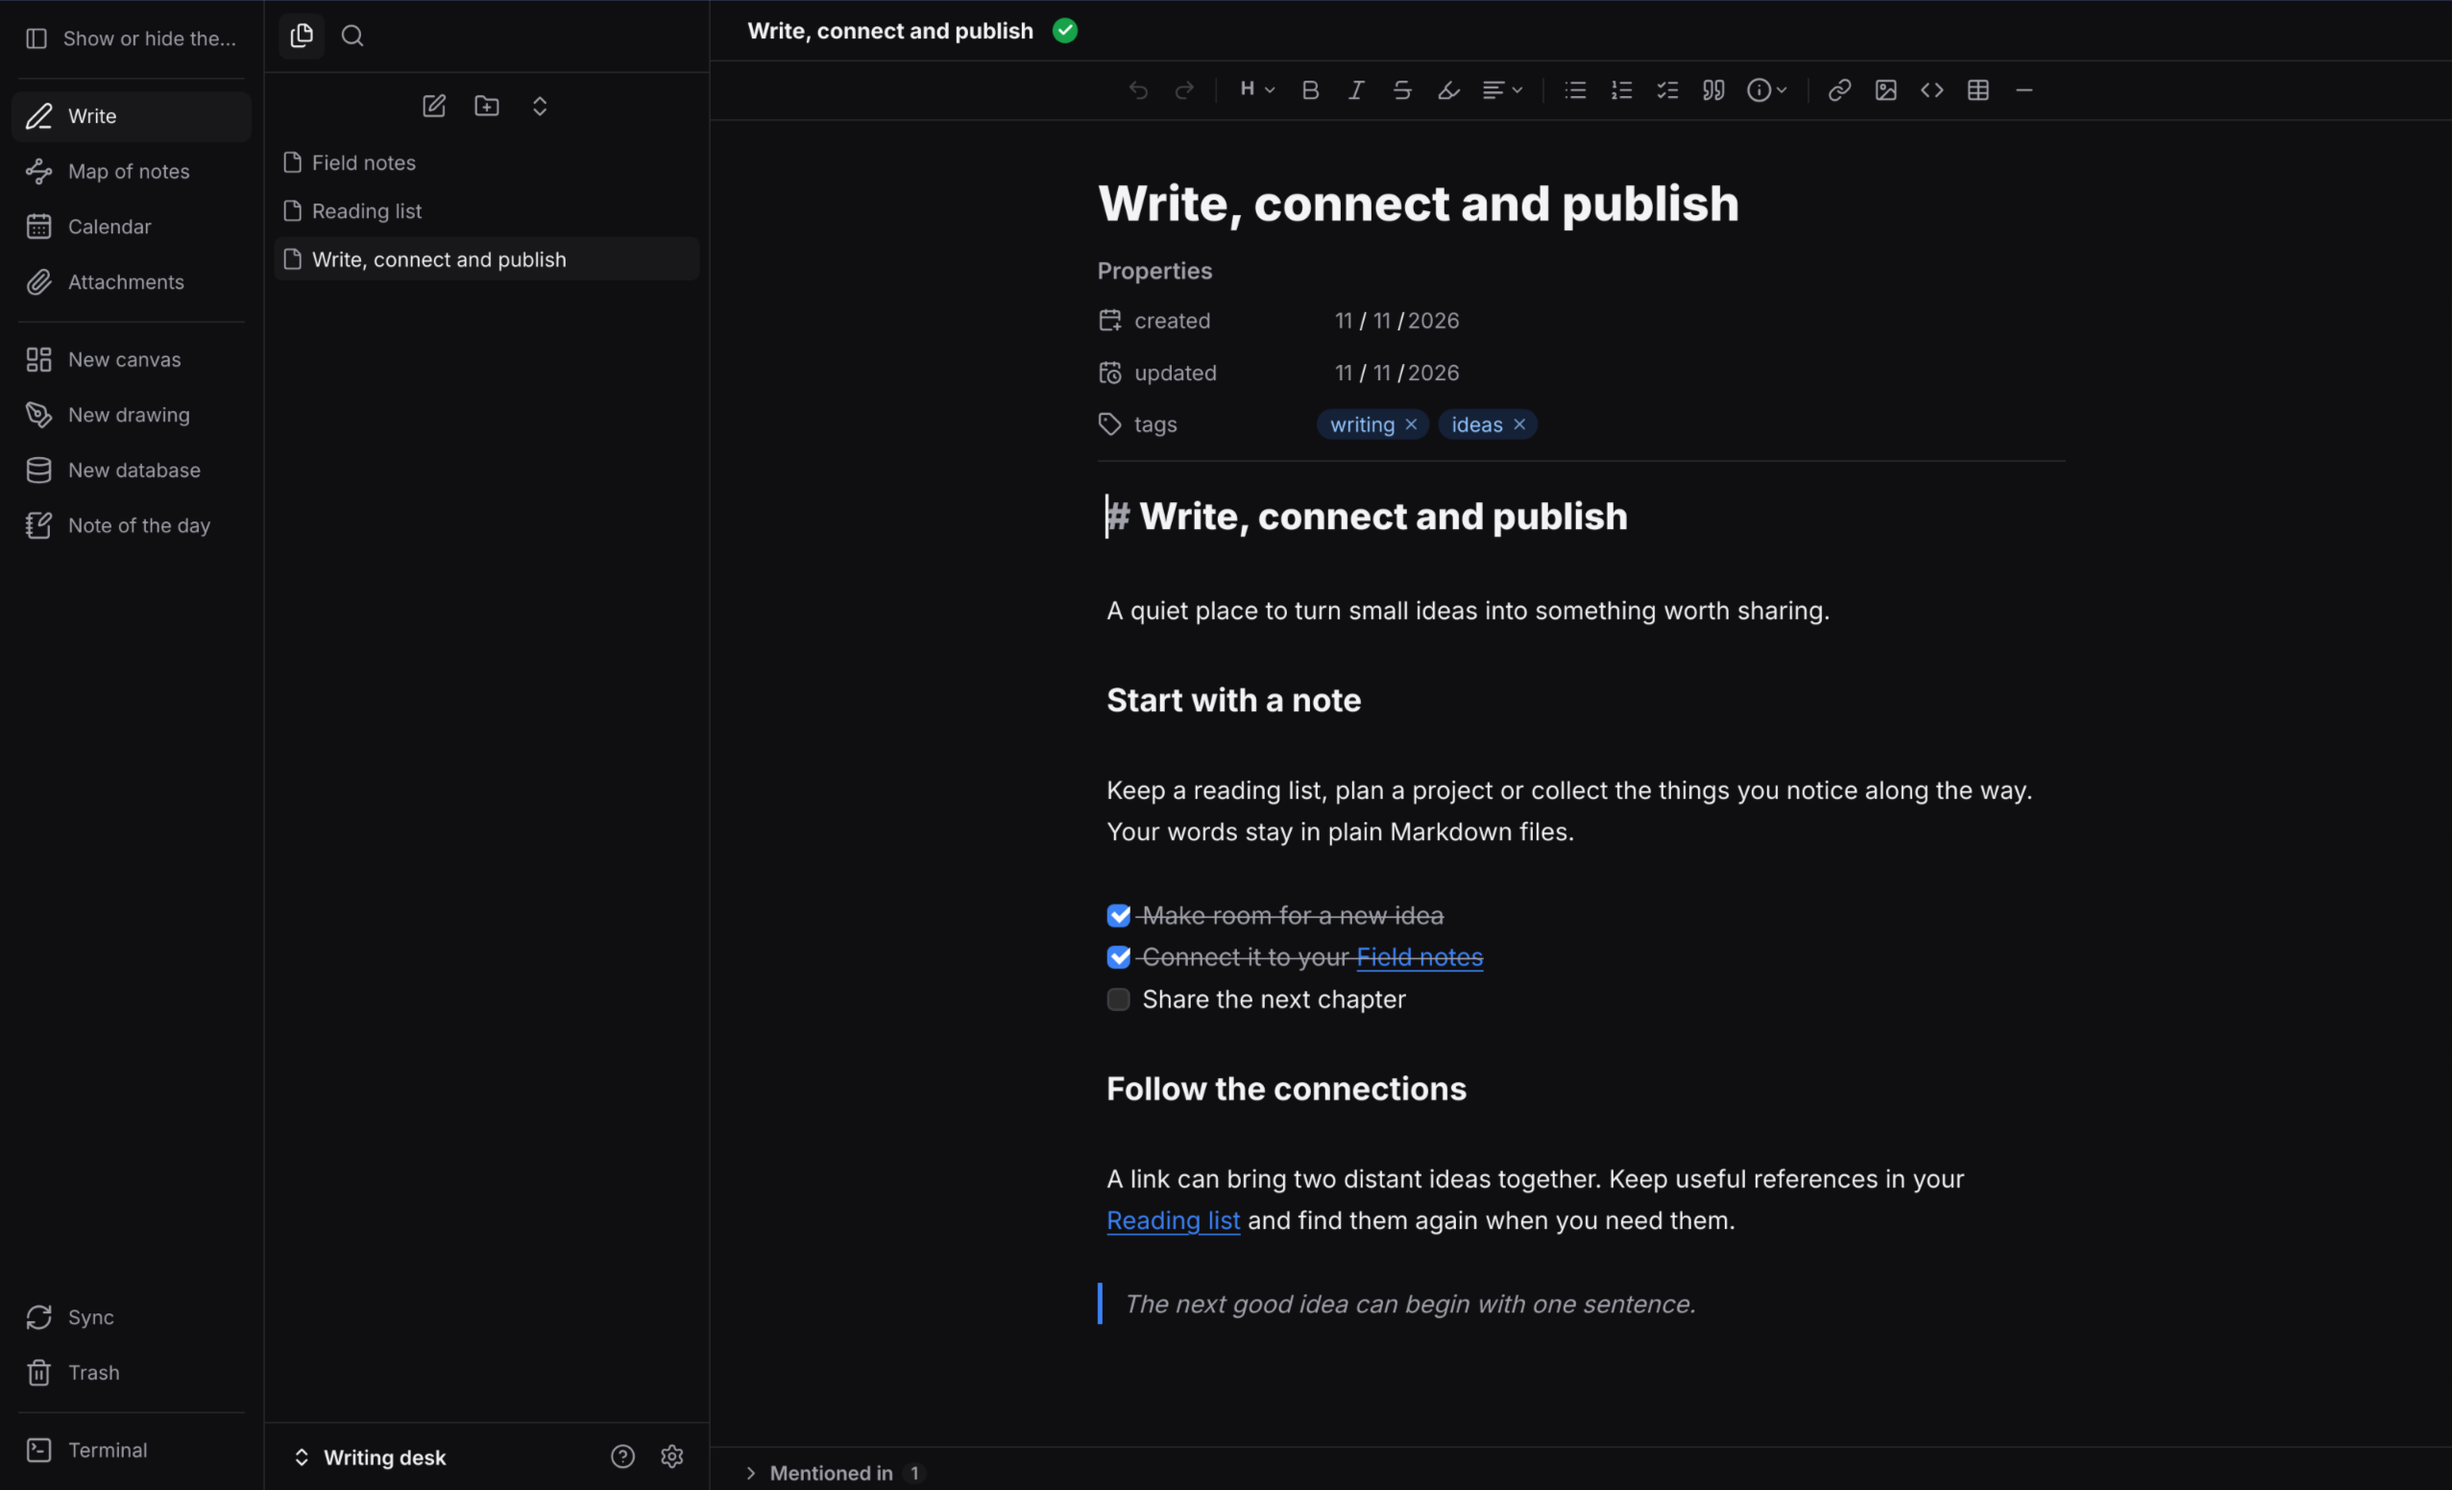
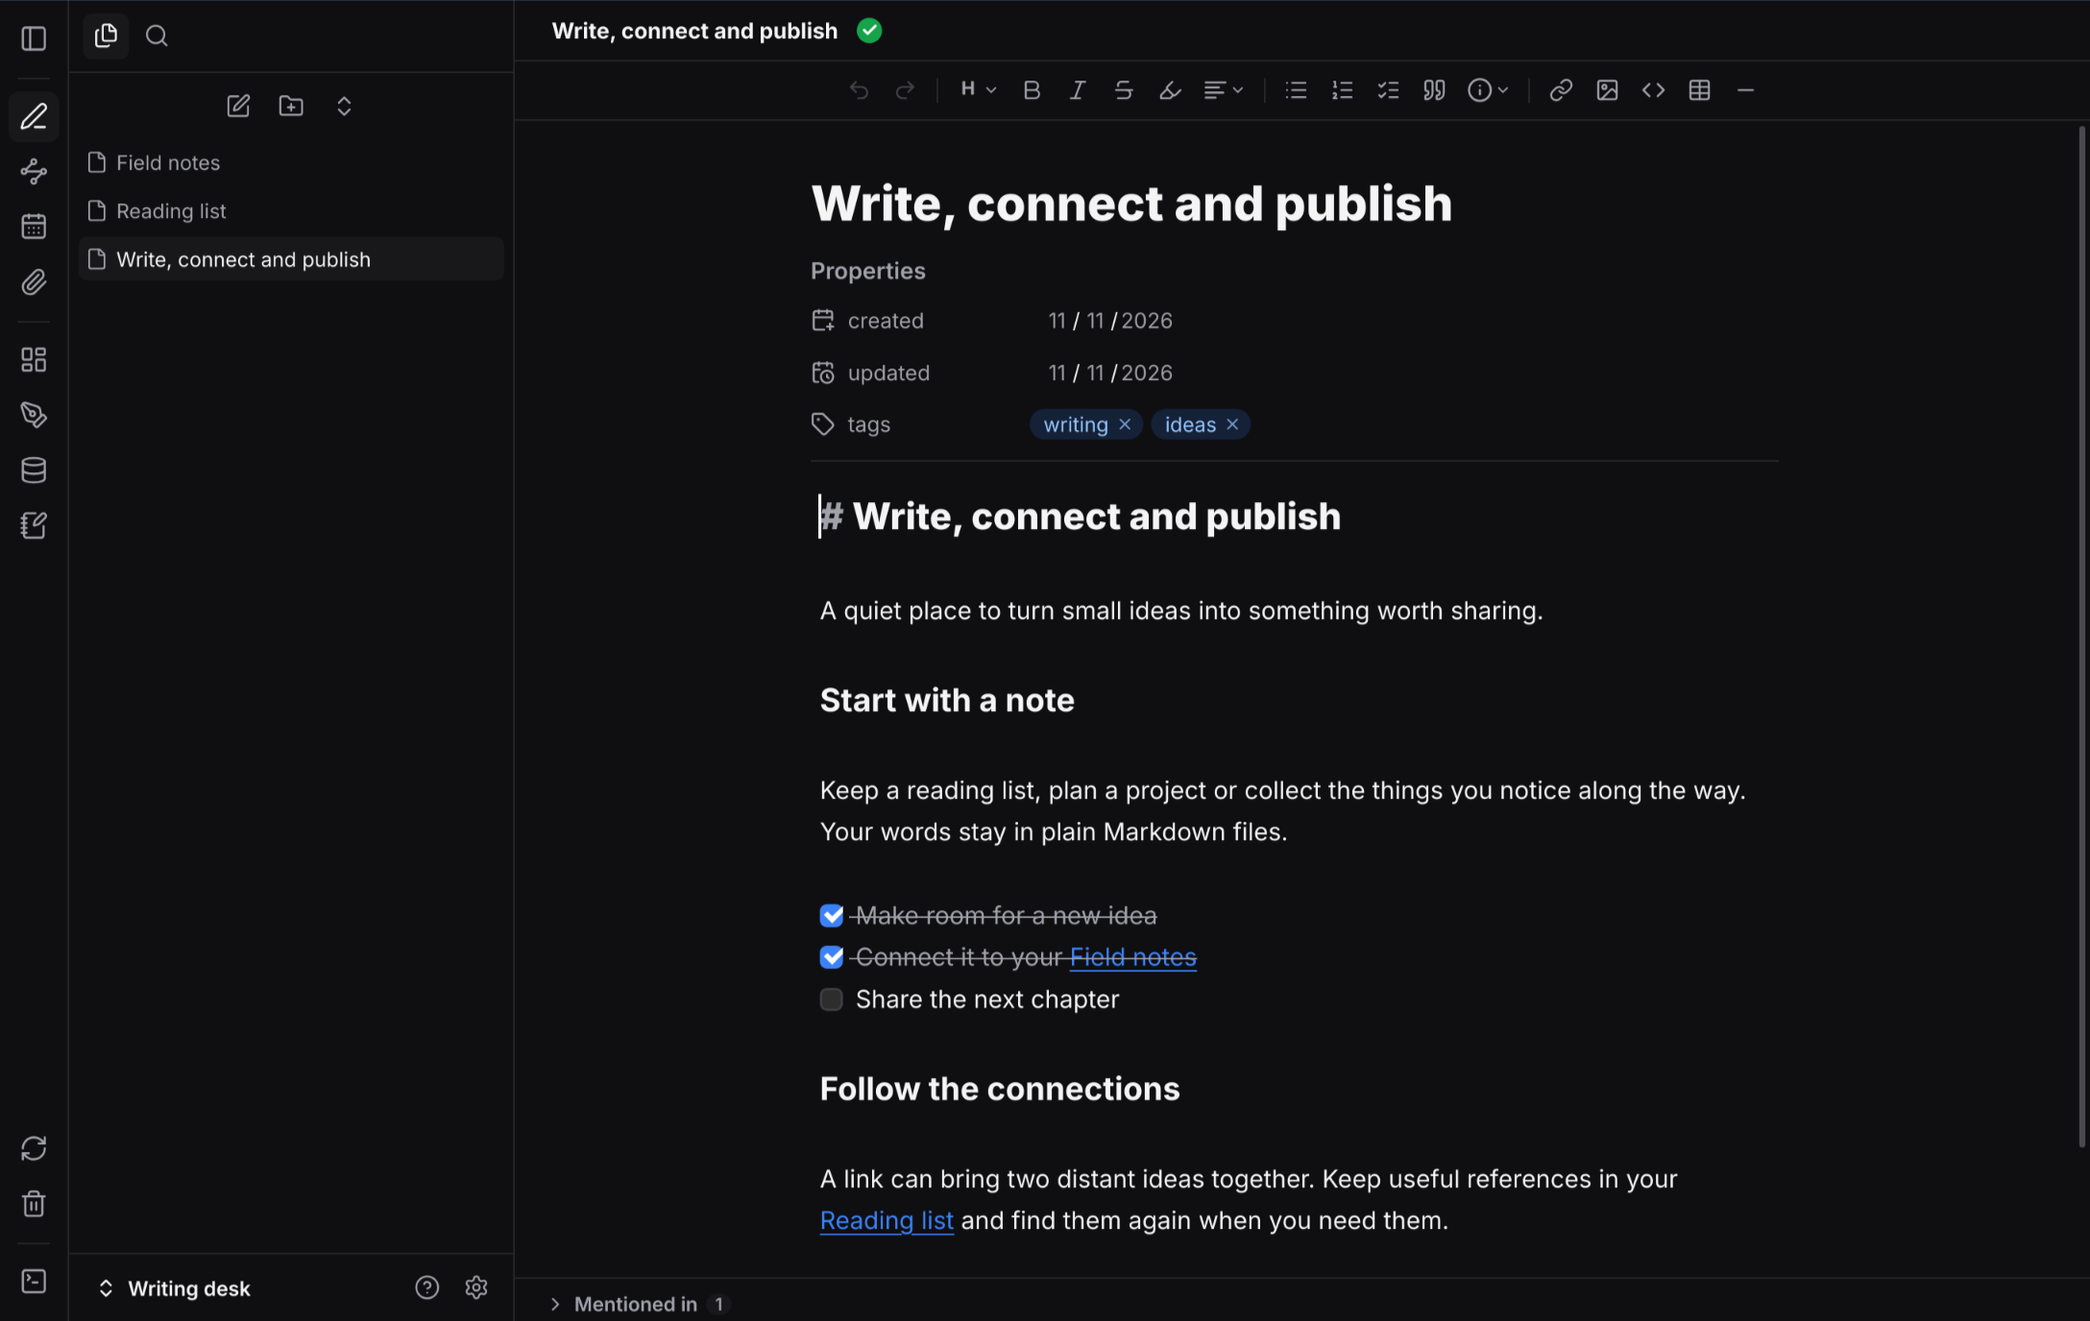
Capturas do Studio refeitas sem o cursor do mouse e com a barra lateral padrão (só ícones), todas em 2176x1376

diff --git a/studio/tools/storepreview/main_linux.go b/studio/tools/storepreview/main_linux.go
@@ -196,7 +196,9 @@ func prepare(root, view, theme string) error {
 	if view == "library" {
 		last = ""
 	}
-	prefs := map[string]any{"theme": theme, "welcomed": true, "cloudTip": true, "shortcutTip": true, "toggleKey": "", "notifications": false, "errorReports": "off", "spellcheck": false, "lastSite": last, "lastNotes": map[string]string{last: note}, "sideWidth": 290, "railNames": true}
+	// railNames off: the Studio's default rail (icons only), and no label
+	// cut short at the screenshot's width.
+	prefs := map[string]any{"theme": theme, "welcomed": true, "cloudTip": true, "shortcutTip": true, "toggleKey": "", "notifications": false, "errorReports": "off", "spellcheck": false, "lastSite": last, "lastNotes": map[string]string{last: note}, "sideWidth": 290, "railNames": false}
 	b, err := json.MarshalIndent(prefs, "", "  ")
 	if err != nil {
 		return err

diff --git a/studio/tools/storepreview/capture_linux.go b/studio/tools/storepreview/capture_linux.go
@@ -118,6 +118,14 @@ func captureWindow(session, output string) error {
 		return err
 	}
 	geometry := fmt.Sprintf("%d,%d %dx%d", w.At[0], w.At[1], w.Size[0], w.Size[1])
+	// The pointer goes just outside the window's top-left corner, so no
+	// cursor (or hover highlight) lands in the picture: Hyprland may draw
+	// the cursor into what grim copies.
+	park := fmt.Sprintf("hl.dispatch(hl.dsp.cursor.move({x=%d,y=%d}))", max(0, w.At[0]-20), max(0, w.At[1]-20))
+	if _, err := command("hyprctl", "eval", park); err != nil {
+		return errors.New("could not move the pointer off the preview window")
+	}
+	time.Sleep(400 * time.Millisecond)
 	if _, err := command("grim", "-g", geometry, output); err != nil {
 		return errors.New("native window capture failed")
 	}
